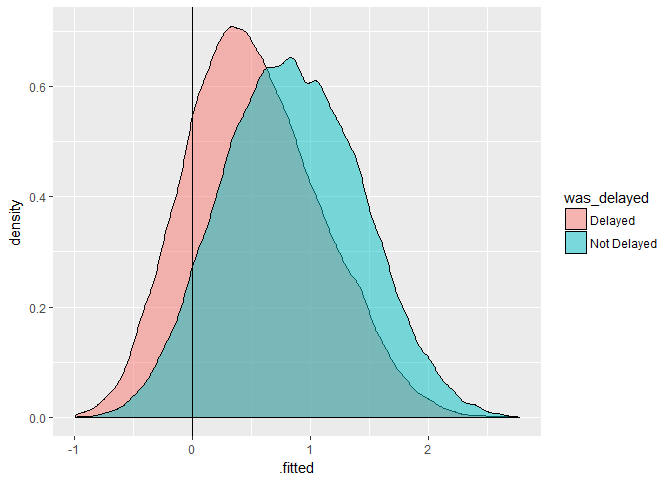
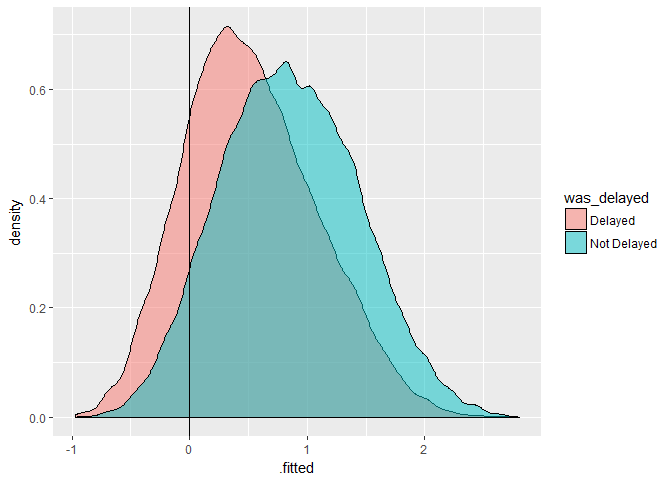
DONE! :sparks:

diff --git a/README.md b/README.md
@@ -60,14 +60,14 @@ We can use dbplyr to construct dplyr commands that work on the DB.
 library(tidyverse)
 ```
 
-    ## -- Attaching packages ---------------------------------------------------------------- tidyverse 1.2.1 --
+    ## -- Attaching packages --------------------------------------- tidyverse 1.2.1 --
 
     ## v ggplot2 2.2.1     v purrr   0.2.4
     ## v tibble  1.4.2     v dplyr   0.7.4
     ## v tidyr   0.8.0     v stringr 1.3.0
     ## v readr   1.1.1     v forcats 0.2.0
 
-    ## -- Conflicts ------------------------------------------------------------------- tidyverse_conflicts() --
+    ## -- Conflicts ------------------------------------------ tidyverse_conflicts() --
     ## x dplyr::filter() masks stats::filter()
     ## x dplyr::lag()    masks stats::lag()
 
@@ -476,7 +476,7 @@ numscleaned_fe
     ##    outcome          1
     ##  predictor         20
     ## 
-    ## Training data contained 235743 data points and 6524 incomplete rows. 
+    ## Training data contained 235743 data points and 6550 incomplete rows. 
     ## 
     ## Operations:
     ## 
@@ -550,26 +550,26 @@ glm_unbal
     ## 
     ## Coefficients:
     ##    month1    month10    month11    month12     month2     month3  
-    ##  1.854974   2.230340   2.200034   1.346410   1.833642   1.958018  
+    ##   1.82614    2.18405    2.15496    1.31058    1.77157    1.90116  
     ##    month4     month5     month6     month7     month8     month9  
-    ##  1.681214   2.065397   1.621735   1.557779   1.879622   2.624398  
+    ##   1.61754    2.02772    1.57390    1.52282    1.84789    2.59673  
     ## carrierAA  carrierB6  carrierDL  carrierEV  carrierMQ  carrierUA  
-    ##  0.258498  -0.219876   0.301817  -0.410256  -0.304729   0.130391  
+    ##   0.29296   -0.16740    0.32633   -0.38425   -0.26453    0.15722  
     ## carrierUS  carrierWN  originJFK  originLGA   distance     hour11  
-    ##  0.046250  -0.189752   0.143669   0.034153  -0.107043  -0.009453  
+    ##   0.08482   -0.15921    0.14537    0.03857   -0.10890    0.02575  
     ##    hour12     hour13     hour14     hour15     hour16     hour17  
-    ## -0.141190  -0.246113  -0.378547  -0.623905  -0.562192  -0.686512  
+    ##  -0.12817   -0.20625   -0.35889   -0.59005   -0.54909   -0.68103  
     ##    hour18     hour19     hour20     hour21     hour22     hour23  
-    ## -0.757612  -0.762375  -0.690694  -0.709327  -0.650233  -0.480280  
+    ##  -0.69994   -0.72549   -0.67419   -0.69631   -0.59824   -0.36698  
     ##     hour5      hour6      hour7      hour8      hour9      week1  
-    ##  0.391644   0.408565   0.353837   0.089500   0.055827  -0.426048  
+    ##   0.41427    0.45752    0.40704    0.13143    0.05771   -0.41989  
     ##     week2      week3  
-    ## -0.152805  -0.209075  
+    ##  -0.17464   -0.21610  
     ## 
-    ## Degrees of Freedom: 221754 Total (i.e. Null);  221710 Residual
-    ##   (7465 observations deleted due to missingness)
-    ## Null Deviance:       307400 
-    ## Residual Deviance: 267500    AIC: 267600
+    ## Degrees of Freedom: 221800 Total (i.e. Null);  221756 Residual
+    ##   (7393 observations deleted due to missingness)
+    ## Null Deviance:       307500 
+    ## Residual Deviance: 267300    AIC: 267400
 
 logLik (log likelihood) is a measure of how gap of what we predicted and what actually happened.
 
@@ -578,8 +578,8 @@ library(broom)
 glance(glm_unbal)
 ```
 
-    ##   null.deviance df.null    logLik      AIC      BIC deviance df.residual
-    ## 1      307416.3  221754 -133742.1 267572.2 268025.8 267484.2      221710
+    ##   null.deviance df.null    logLik      AIC    BIC deviance df.residual
+    ## 1      307480.1  221800 -133669.2 267426.4 267880 267338.4      221756
 
 Get the coefficients.
 
@@ -587,51 +587,51 @@ Get the coefficients.
 tidy(glm_unbal)
 ```
 
-    ##         term     estimate   std.error   statistic       p.value
-    ## 1     month1  1.854973553 0.059438986  31.2080282 8.291310e-214
-    ## 2    month10  2.230339784 0.060035203  37.1505330 4.298021e-302
-    ## 3    month11  2.200033589 0.060130589  36.5875940 4.504910e-293
-    ## 4    month12  1.346410473 0.059560960  22.6055873 3.818627e-113
-    ## 5     month2  1.833641659 0.059643629  30.7432946 1.503079e-207
-    ## 6     month3  1.958018286 0.059623545  32.8396824 1.598969e-236
-    ## 7     month4  1.681214486 0.059554778  28.2297163 2.525734e-175
-    ## 8     month5  2.065396948 0.059795988  34.5407276 1.964057e-261
-    ## 9     month6  1.621734531 0.059599953  27.2103322 4.901532e-163
-    ## 10    month7  1.557779481 0.059552344  26.1581557 7.959649e-151
-    ## 11    month8  1.879621591 0.059694868  31.4871556 1.302265e-217
-    ## 12    month9  2.624397692 0.060753950  43.1971532  0.000000e+00
-    ## 13 carrierAA  0.258498123 0.027257998   9.4833863  2.461621e-21
-    ## 14 carrierB6 -0.219875683 0.023941746  -9.1837781  4.162257e-20
-    ## 15 carrierDL  0.301816825 0.025319082  11.9205279  9.252044e-33
-    ## 16 carrierEV -0.410255795 0.026005820 -15.7755377  4.584771e-56
-    ## 17 carrierMQ -0.304728917 0.026790865 -11.3743590  5.611363e-30
-    ## 18 carrierUA  0.130391237 0.027104190   4.8107409  1.503718e-06
-    ## 19 carrierUS  0.046250374 0.029290638   1.5790156  1.143325e-01
-    ## 20 carrierWN -0.189752419 0.033347223  -5.6902015  1.268896e-08
-    ## 21 originJFK  0.143669221 0.015808188   9.0882787  1.006194e-19
-    ## 22 originLGA  0.034153462 0.014282830   2.3912251  1.679226e-02
-    ## 23  distance -0.107043441 0.007552081 -14.1740320  1.326599e-45
-    ## 24    hour11 -0.009453025 0.031238944  -0.3026039  7.621918e-01
-    ## 25    hour12 -0.141190490 0.029733627  -4.7485122  2.049186e-06
-    ## 26    hour13 -0.246112937 0.029145106  -8.4444003  3.056104e-17
-    ## 27    hour14 -0.378547129 0.028476621 -13.2932600  2.532971e-40
-    ## 28    hour15 -0.623905467 0.027561266 -22.6370398 1.872003e-113
-    ## 29    hour16 -0.562191588 0.028090653 -20.0134752  4.203008e-89
-    ## 30    hour17 -0.686512190 0.027690574 -24.7922701 1.086234e-135
-    ## 31    hour18 -0.757612212 0.028264339 -26.8045262 2.861609e-158
-    ## 32    hour19 -0.762375346 0.028212548 -27.0225631 8.027822e-161
-    ## 33    hour20 -0.690693598 0.029826774 -23.1568324 1.240680e-118
-    ## 34    hour21 -0.709327201 0.032666769 -21.7140299 1.512013e-104
-    ## 35    hour22 -0.650233369 0.054981104 -11.8264880  2.848107e-32
-    ## 36    hour23 -0.480280159 0.079794355  -6.0189741  1.755259e-09
-    ## 37     hour5  0.391643848 0.072523333   5.4002461  6.654954e-08
-    ## 38     hour6  0.408565249 0.029011690  14.0827800  4.846511e-45
-    ## 39     hour7  0.353837137 0.030229340  11.7050899  1.200320e-31
-    ## 40     hour8  0.089499802 0.028051093   3.1905994  1.419780e-03
-    ## 41     hour9  0.055826532 0.029960888   1.8633137  6.241814e-02
-    ## 42     week1 -0.426047538 0.014444809 -29.4948538 3.351465e-191
-    ## 43     week2 -0.152804578 0.014525982 -10.5193978  7.032161e-26
-    ## 44     week3 -0.209074809 0.013449094 -15.5456430  1.703048e-54
+    ##         term    estimate   std.error   statistic       p.value
+    ## 1     month1  1.82613647 0.059360684  30.7633999 8.094145e-208
+    ## 2    month10  2.18405152 0.059909969  36.4555606 5.616325e-291
+    ## 3    month11  2.15496485 0.059992671  35.9204685 1.463889e-282
+    ## 4    month12  1.31058043 0.059476684  22.0351967 1.324687e-107
+    ## 5     month2  1.77157015 0.059540809  29.7538809 1.544833e-194
+    ## 6     month3  1.90115728 0.059515203  31.9440614 6.532417e-224
+    ## 7     month4  1.61754194 0.059433363  27.2160592 4.193300e-163
+    ## 8     month5  2.02771945 0.059673457  33.9802575 4.360743e-253
+    ## 9     month6  1.57390112 0.059500203  26.4520292 3.457799e-154
+    ## 10    month7  1.52281521 0.059433788  25.6220452 8.666600e-145
+    ## 11    month8  1.84788979 0.059610600  30.9993489 5.500516e-211
+    ## 12    month9  2.59673430 0.060713796  42.7700864  0.000000e+00
+    ## 13 carrierAA  0.29295530 0.027161842  10.7855459  4.028445e-27
+    ## 14 carrierB6 -0.16740105 0.023886520  -7.0081808  2.414367e-12
+    ## 15 carrierDL  0.32632618 0.025229769  12.9341724  2.887154e-38
+    ## 16 carrierEV -0.38424778 0.025920632 -14.8240132  1.024748e-49
+    ## 17 carrierMQ -0.26453072 0.026777534  -9.8788308  5.142948e-23
+    ## 18 carrierUA  0.15721922 0.027044863   5.8132748  6.126236e-09
+    ## 19 carrierUS  0.08481819 0.029208193   2.9039178  3.685250e-03
+    ## 20 carrierWN -0.15921348 0.033344299  -4.7748337  1.798558e-06
+    ## 21 originJFK  0.14537197 0.015780031   9.2124003  3.189122e-20
+    ## 22 originLGA  0.03857486 0.014270718   2.7030779  6.870064e-03
+    ## 23  distance -0.10889695 0.007546762 -14.4296252  3.369069e-47
+    ## 24    hour11  0.02575395 0.031196065   0.8255513  4.090587e-01
+    ## 25    hour12 -0.12817044 0.029700348  -4.3154526  1.592762e-05
+    ## 26    hour13 -0.20624922 0.029136608  -7.0786971  1.455160e-12
+    ## 27    hour14 -0.35889117 0.028377381 -12.6470856  1.161023e-36
+    ## 28    hour15 -0.59005063 0.027473694 -21.4769311 2.558619e-102
+    ## 29    hour16 -0.54909354 0.027997507 -19.6122297  1.215831e-85
+    ## 30    hour17 -0.68103297 0.027582010 -24.6912020 1.329501e-134
+    ## 31    hour18 -0.69994189 0.028143870 -24.8701366 1.566206e-136
+    ## 32    hour19 -0.72548548 0.028157323 -25.7654282 2.165070e-146
+    ## 33    hour20 -0.67418659 0.029819424 -22.6089740 3.536641e-113
+    ## 34    hour21 -0.69630826 0.032541447 -21.3975812 1.407213e-101
+    ## 35    hour22 -0.59824255 0.055085599 -10.8602349  1.782900e-27
+    ## 36    hour23 -0.36698028 0.080517915  -4.5577469  5.170528e-06
+    ## 37     hour5  0.41426934 0.071208263   5.8177144  5.965771e-09
+    ## 38     hour6  0.45751683 0.029009098  15.7714941  4.887964e-56
+    ## 39     hour7  0.40704421 0.030231832  13.4640931  2.544228e-41
+    ## 40     hour8  0.13142617 0.027984149   4.6964504  2.647215e-06
+    ## 41     hour9  0.05771020 0.029794059   1.9369702  5.274899e-02
+    ## 42     week1 -0.41989191 0.014451939 -29.0543641 1.355356e-185
+    ## 43     week2 -0.17464024 0.014529011 -12.0201050  2.786171e-33
+    ## 44     week3 -0.21610479 0.013456127 -16.0599549  4.869053e-58
 
 Takes the original data and add the prediction and the accosiated error.
 
@@ -640,19 +640,19 @@ head(augment(glm_unbal))
 ```
 
     ##   .rownames was_delayed month carrier origin distance hour week  .fitted
-    ## 1         1     Delayed     1      UA    EWR 7.244228    5    0 1.601562
-    ## 2         2     Delayed     1      UA    LGA 7.255591    5    0 1.634499
-    ## 3         3     Delayed     1      AA    JFK 6.993015    5    0 1.900228
-    ## 4         4 Not Delayed     1      B6    JFK 7.362645    5    0 1.382288
-    ## 5         5 Not Delayed     1      DL    LGA 6.635947    6    0 1.889175
-    ## 6         6     Delayed     1      B6    EWR 6.970730    6    0 1.297492
+    ## 1         1     Delayed     1      UA    LGA 7.255591    5    0 1.646088
+    ## 2         2 Not Delayed     1      B6    JFK 7.362645    5    0 1.416607
+    ## 3         3 Not Delayed     1      EV    LGA 5.433722    6    0 1.346265
+    ## 4         4 Not Delayed     1      B6    JFK 6.850126    6    0 1.515666
+    ## 5         5 Not Delayed     1      B6    JFK 6.935370    6    0 1.506383
+    ## 6         6 Not Delayed     1      B6    JFK 6.912743    6    0 1.508848
     ##      .se.fit     .resid         .hat   .sigma      .cooksd .std.resid
-    ## 1 0.07180654 -1.8895503 0.0007199003 1.098385 8.128203e-05 -1.8902308
-    ## 2 0.07293258 -1.9040414 0.0007264693 1.098385 8.477144e-05 -1.9047334
-    ## 3 0.07308455 -2.0196957 0.0006044336 1.098384 9.197712e-05 -2.0203064
-    ## 4 0.07227158  0.6692475 0.0008377183 1.098391 4.786887e-06  0.6695280
-    ## 5 0.02998311  0.5306635 0.0001025643 1.098391 3.525127e-07  0.5306907
-    ## 6 0.03091502 -1.7544448 0.0001610799 1.098386 1.340362e-05 -1.7545861
+    ## 1 0.07166390 -1.9091327 0.0006959480 1.097971 8.215155e-05 -1.9097974
+    ## 2 0.07102009  0.6590206 0.0007923559 1.097978 4.374531e-06  0.6592818
+    ## 3 0.03089502  0.6801158 0.0001563924 1.097978 9.251741e-07  0.6801689
+    ## 4 0.02853612  0.6301961 0.0001202446 1.097978 6.004430e-07  0.6302340
+    ## 5 0.02856073  0.6328535 0.0001211681 1.097978 6.106983e-07  0.6328919
+    ## 6 0.02855279  0.6321473 0.0001209106 1.097978 6.079006e-07  0.6321855
 
 Plot predicteds VS actuals
 
@@ -686,7 +686,7 @@ test_scored %>%
   geom_vline(aes(xintercept=0))
 ```
 
-    ## Warning: Removed 3131 rows containing non-finite values (stat_density).
+    ## Warning: Removed 3203 rows containing non-finite values (stat_density).
 
 ![](README_files/figure-markdown_github/unnamed-chunk-24-1.png)
 
@@ -712,8 +712,8 @@ test_scored %>%
 
     ##              Truth
     ## Prediction    Delayed Not Delayed
-    ##   Delayed        5621        4514
-    ##   Not Delayed   26031       58830
+    ##   Delayed        5718        4461
+    ##   Not Delayed   25991       58780
 
 Let's calculate accuracy
 
@@ -724,4 +724,144 @@ test_scored %>%
   accuracy(was_delayed,glm_unbal_class)
 ```
 
-    ## [1] 0.6784601
+    ## [1] 0.6792838
+
+Glmnet - generate linear model that looks at how to boost performance while reducing the complexity. Types of regularization: l1 and l2 - you can get absolute 0 values
+
+``` r
+library(glmnetUtils)
+
+glmnet_unbal <- glmnet(was_delayed~.,
+                       train_prep1,
+                       family="binomial",
+                       alpha=0.5, #uses a combination of l1 and l2
+                       intercept = FALSE)
+glmnet_unbal
+```
+
+    ## Call:
+    ## glmnet.formula(formula = was_delayed ~ ., data = train_prep1, 
+    ##     alpha = 0.5, family = "binomial", intercept = FALSE)
+    ## 
+    ## Model fitting options:
+    ##     Sparse model matrix: FALSE
+    ##     Use model.frame: FALSE
+    ##     Alpha: 0.5
+    ##     Lambda summary:
+    ##      Min.   1st Qu.    Median      Mean   3rd Qu.      Max. 
+    ## 0.0003168 0.0030984 0.0302394 0.3281686 0.2957614 2.8864948
+
+``` r
+glance(glmnet_unbal)
+```
+
+    ##    nulldev npasses
+    ## 1 307480.1    1664
+
+``` r
+plot(glmnet_unbal)
+```
+
+![](README_files/figure-markdown_github/unnamed-chunk-29-1.png) What level of variance if explained at each step?
+
+``` r
+glmnet_unbal_cv <- cv.glmnet(was_delayed~.,
+                             train_prep1,
+                             family = "binomial",
+                             alpha = 0.5)
+```
+
+plotting cv The first line gives us the smallest variation of the penilized.
+
+``` r
+plot(glmnet_unbal_cv)
+```
+
+![](README_files/figure-markdown_github/unnamed-chunk-31-1.png)
+
+The rows with the dots means that those values are not useful for the prediction and have been set to NOT impact the model. Positive - increase the odds of your flight being on time Negative - increase the odds of your flight being delayed
+
+``` r
+coef(glmnet_unbal_cv, s = "lambda.min")
+```
+
+    ## 57 x 1 sparse Matrix of class "dgCMatrix"
+    ##                        1
+    ## (Intercept)  1.334370949
+    ## month1      -0.005684383
+    ## month10      0.332773672
+    ## month11      0.303466847
+    ## month12     -0.520220949
+    ## month2      -0.058924335
+    ## month3       0.052123936
+    ## month4      -0.213965376
+    ## month5       0.177825400
+    ## month6      -0.257276505
+    ## month7      -0.308753638
+    ## month8       .          
+    ## month9       0.740710078
+    ## carrier9E    .          
+    ## carrierAA    0.264271473
+    ## carrierAS    .          
+    ## carrierB6   -0.173935275
+    ## carrierDL    0.299045222
+    ## carrierEV   -0.394727863
+    ## carrierF9    .          
+    ## carrierFL    .          
+    ## carrierHA    .          
+    ## carrierMQ   -0.269114572
+    ## carrierOO    .          
+    ## carrierUA    0.124023691
+    ## carrierUS    0.064511874
+    ## carrierVX    .          
+    ## carrierWN   -0.167646171
+    ## carrierYV    .          
+    ## originEWR   -0.035892851
+    ## originJFK    0.091149212
+    ## originLGA    .          
+    ## distance    -0.097986543
+    ## hour1        .          
+    ## hour10       0.266787452
+    ## hour11       0.292207676
+    ## hour12       0.141443748
+    ## hour13       0.061102345
+    ## hour14      -0.068046179
+    ## hour15      -0.299836533
+    ## hour16      -0.259762331
+    ## hour17      -0.389594355
+    ## hour18      -0.409714377
+    ## hour19      -0.434006413
+    ## hour20      -0.382851945
+    ## hour21      -0.404065146
+    ## hour22      -0.282529916
+    ## hour23      -0.054162238
+    ## hour5        0.652206025
+    ## hour6        0.722320412
+    ## hour7        0.671169431
+    ## hour8        0.400675784
+    ## hour9        0.324218103
+    ## week0        0.206346352
+    ## week1       -0.201121694
+    ## week2        0.033405338
+    ## week3        .
+
+#### Prep and score test data
+
+``` r
+test_scored$glmnet_unbal_cv <- as.vector(predict(glmnet_unbal_cv,
+                                                 test_scored, 
+                                                 na.action = na.pass))
+```
+
+``` r
+test_scored %>% 
+  ggplot(aes(x=glmnet_unbal_cv, group=was_delayed, fill=was_delayed)) +
+  geom_density(alpha =.5) +
+  geom_vline(aes(xintercept=0))
+```
+
+    ## Warning: Removed 3203 rows containing non-finite values (stat_density).
+
+![](README_files/figure-markdown_github/unnamed-chunk-34-1.png)
+
+As we can see it's still not very good, pretty much the same as the previous one.
